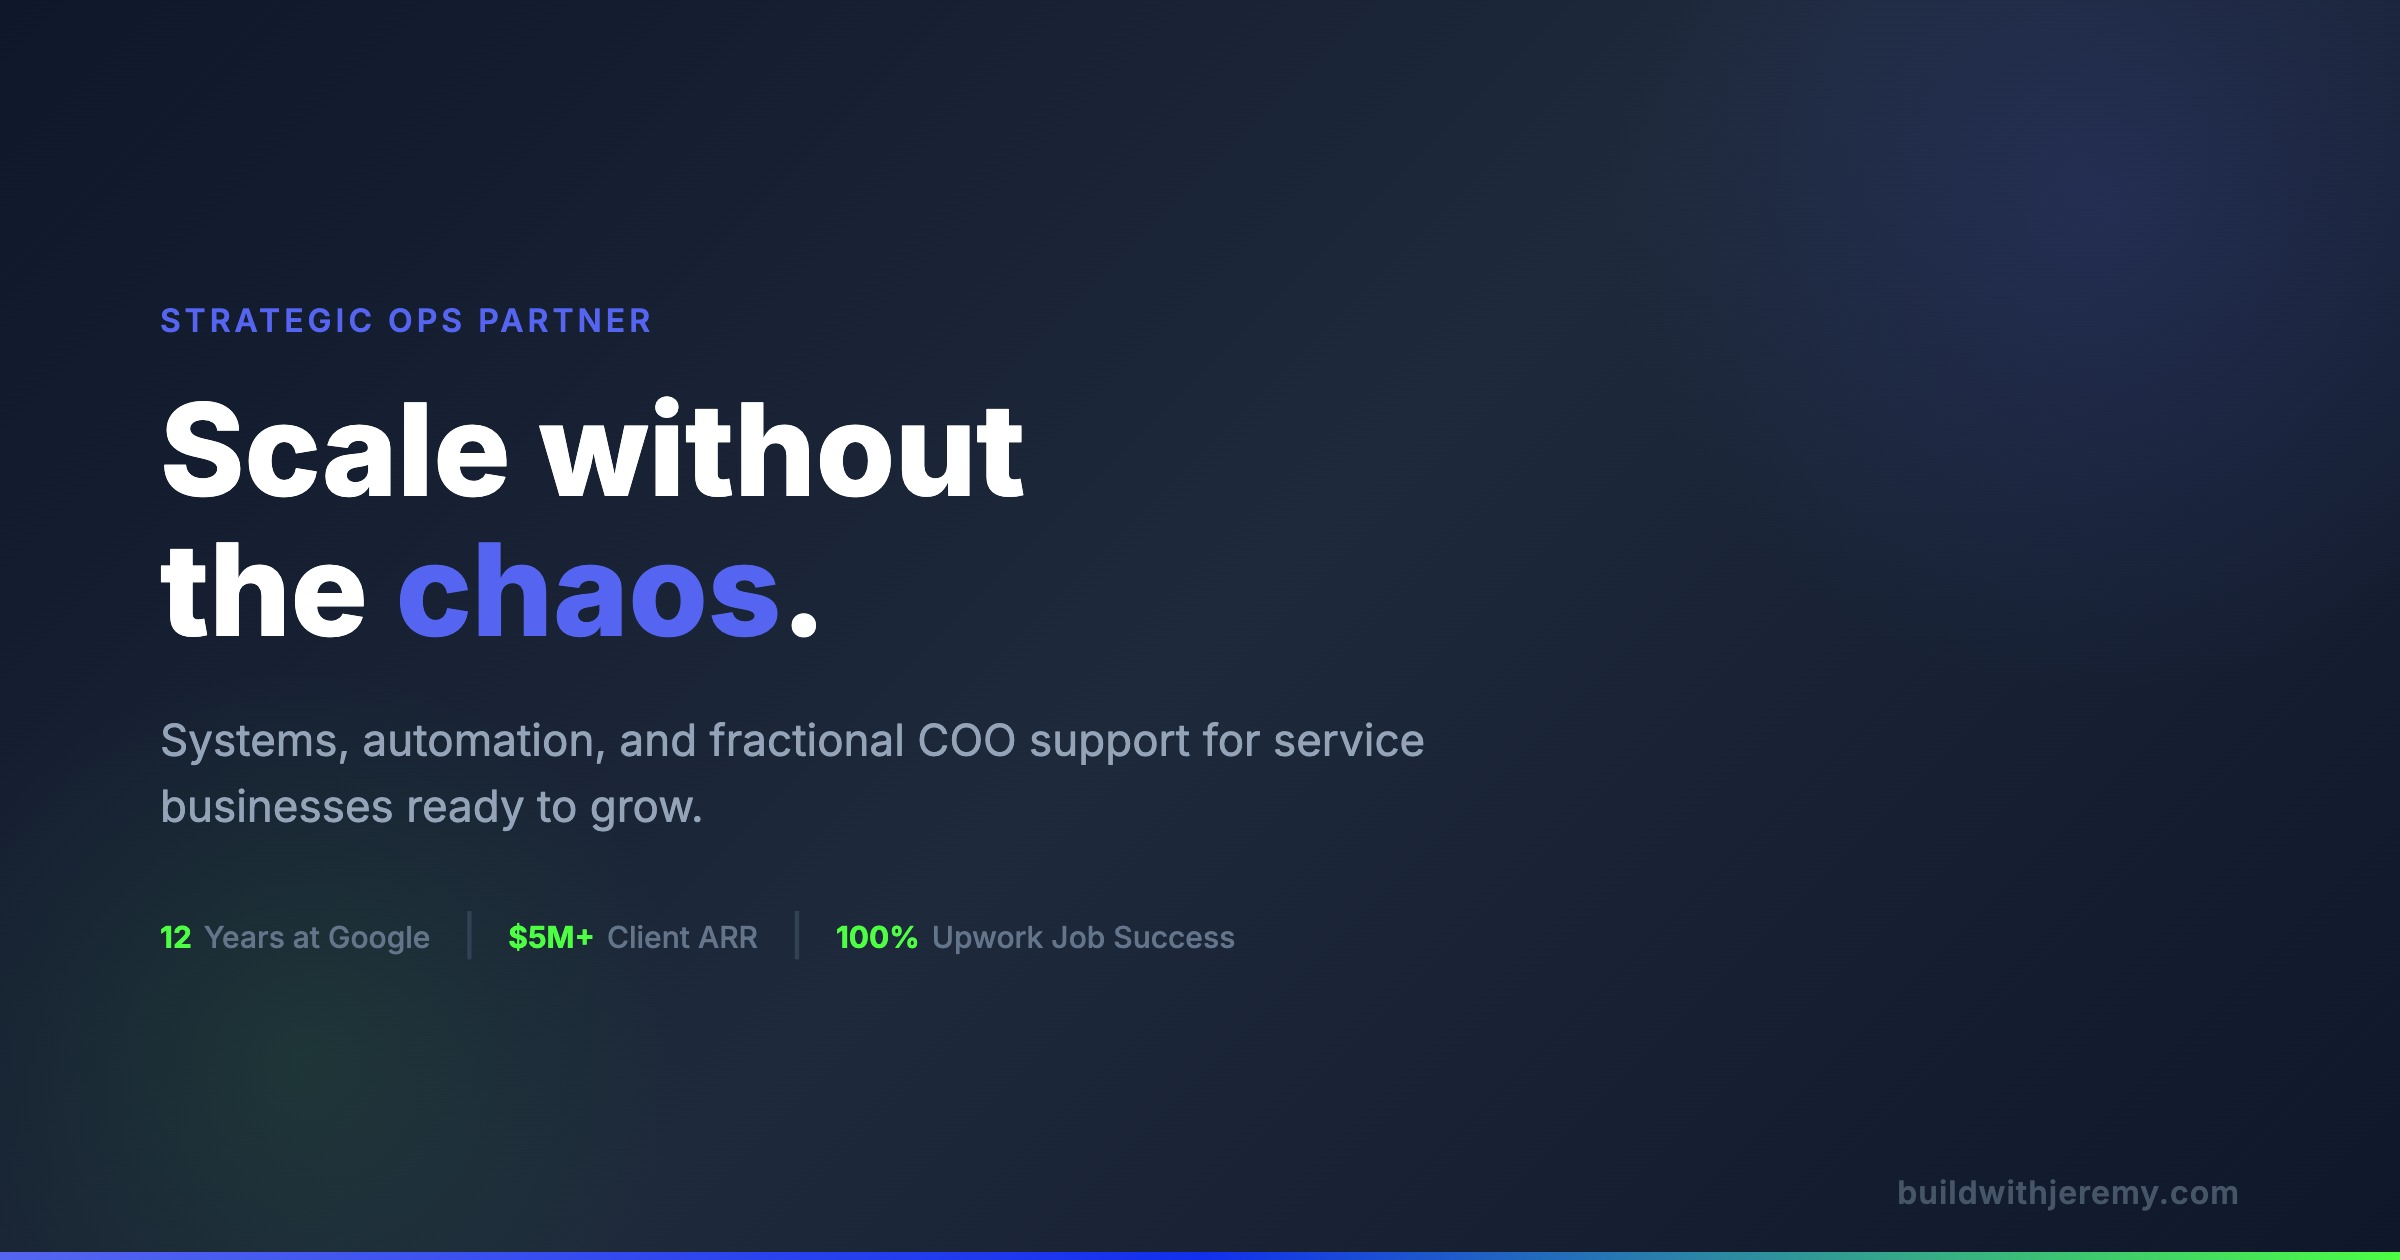
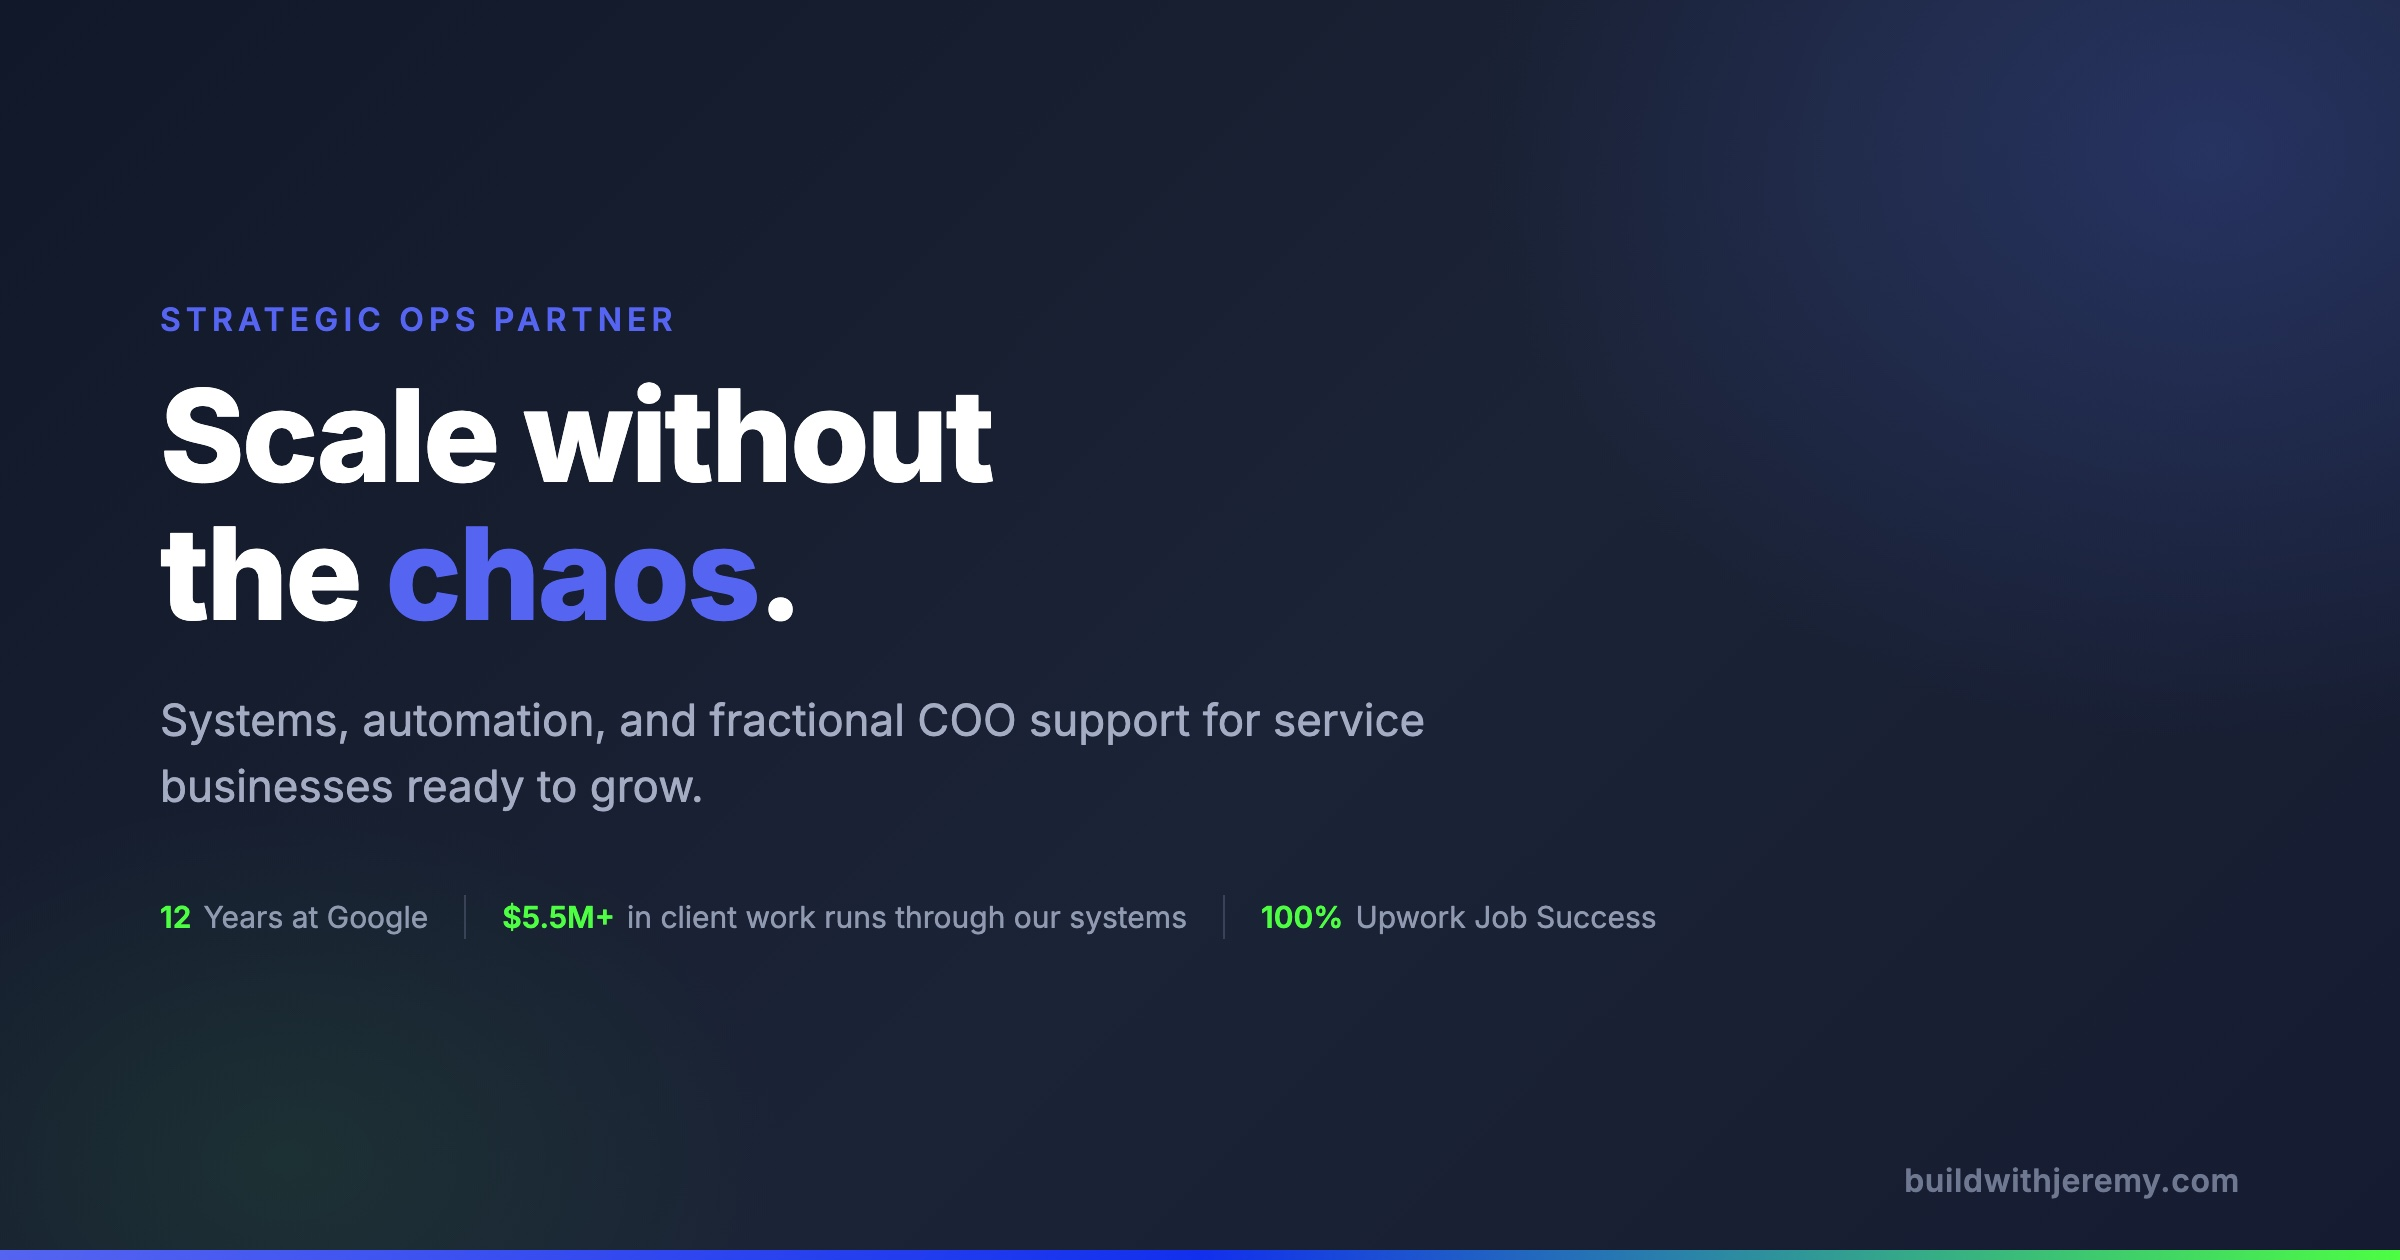
Share image: replace retired "$5M+ Client ARR" with the approved $5.5M+ claim [WI:6f4a745a] (#56)
Rebuilt public/og-image.jpg from a committed source (scripts/og/og-image.html),
same design. Claims guard now also bans "client ARR".

diff --git a/scripts/og/og-image.html b/scripts/og/og-image.html
@@ -1,0 +1,30 @@
+<!doctype html><html><head><meta charset="utf-8">
+<!-- Source for public/og-image.jpg (1200x630 at 2x). Render:
+  "/Applications/Google Chrome.app/Contents/MacOS/Google Chrome" --headless=new --hide-scrollbars \
+    --force-device-scale-factor=2 --window-size=1200,630 --virtual-time-budget=4000 \
+    --screenshot=/tmp/og.png "file://$PWD/scripts/og/og-image.html" && sips -s format jpeg -s formatOptions 88 /tmp/og.png --out public/og-image.jpg
+  Claims must come from BWJ-Marketing proof/proof-points.md (APPROVED rows only). -->
+<link href="https://fonts.googleapis.com/css2?family=Inter:wght@400;500;600;800&display=swap" rel="stylesheet">
+<style>
+*{margin:0;box-sizing:border-box}
+body{width:1200px;height:630px;overflow:hidden;font-family:Inter,sans-serif;color:#fff;position:relative;
+background:radial-gradient(520px 420px at 92% 12%,rgba(54,72,150,.45),rgba(0,0,0,0) 70%),radial-gradient(360px 260px at 12% 92%,rgba(77,254,67,.08),rgba(0,0,0,0) 70%),linear-gradient(135deg,#111829 0%,#1b2336 55%,#151c31 100%)}
+.wrap{position:absolute;left:80px;top:150px}
+.k{color:#5565f1;font-weight:600;letter-spacing:.16em;font-size:16px}
+h1{font-weight:800;font-size:64px;line-height:1.08;letter-spacing:-.02em;margin-top:14px}
+h1 span{color:#5565f1}
+p{color:#a3acc2;font-size:22px;line-height:1.5;margin-top:22px;width:660px}
+.stats{display:flex;align-items:center;gap:18px;margin-top:38px;font-size:15px;color:#8f99b0;white-space:nowrap}
+.stats b{color:#4dfe43;font-weight:600;margin-right:6px}
+.sep{width:1px;height:22px;background:#3a4258}
+.url{position:absolute;right:80px;bottom:30px;color:#6f7891;font-size:16px;font-weight:600;letter-spacing:.02em}
+.bar{position:absolute;left:0;right:0;bottom:0;height:5px;background:linear-gradient(90deg,#5565f1,#122fed 50%,#4dfe43)}
+</style></head><body>
+<div class="wrap">
+<div class="k">STRATEGIC OPS PARTNER</div>
+<h1>Scale without<br>the <span>chaos</span>.</h1>
+<p>Systems, automation, and fractional COO support for service businesses ready to grow.</p>
+<div class="stats"><div><b>12</b>Years at Google</div><div class="sep"></div><div><b>$5.5M+</b>in client work runs through our systems</div><div class="sep"></div><div><b>100%</b>Upwork Job Success</div></div>
+</div>
+<div class="url">buildwithjeremy.com</div><div class="bar"></div>
+</body></html>
